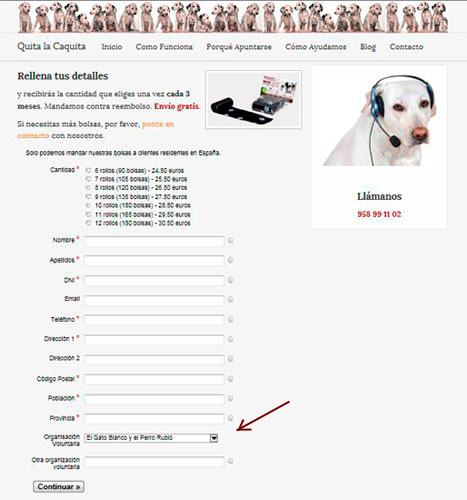
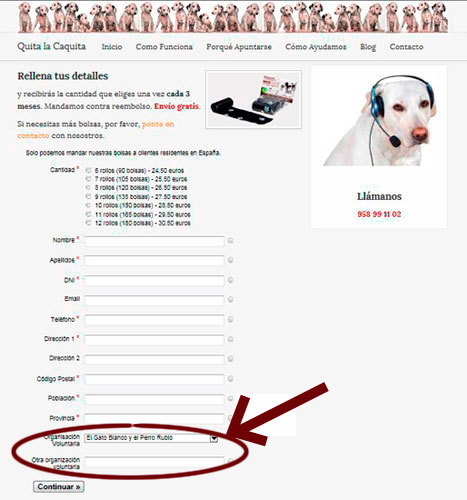
adding formulario to asiciacion, widget update

Changed region(s): [[0.0, 0.75, 0.7195, 0.96], [0.7794, 0.18, 0.8094, 0.21]]

diff --git a/widgets/widget200x400.html b/widgets/widget200x400.html
@@ -1,0 +1,25 @@
+title: ¡Gracias por apuntarte!
+template: widget
+
+<?php
+     $url = "/";
+     $source = $_REQUEST['id'];
+     if($source != "") $url = $url."?id=".$source
+?>
+
+<div class="row-fluid">
+    <div class="well span3 centered">
+        <a href="<?$url?>" target="_blank"><img class="img-polaroid centered" src="/images/Leo_quitalacaquita_feed.jpg" alt="quita la caquita"></a>
+        <h4>¡Nunca Más Sin Bolsitas!</h4>
+        <p class="highlight">Te llegarán a casa.</p>
+        <p class="centered"><img class="img-polaroid" src="/images/bolsas_small.jpg" alt="bolsas de caca de perros" title="Bolsas degradables" /></p>
+        <p>¡Una preocupación menos para ti - una gran ayuda para nosotros!</p>
+        <div class="centered"><a href='<?$url?>' target="_blank" class="btn btn-primary btn-large">¿Cómo Funciona?</a></div>
+    </div>
+    <div class="well span8 centered">
+        
+    </div>
+</div>
+
+
+

diff --git a/templates-hidden/widget.html b/templates-hidden/widget.html
@@ -11,7 +11,6 @@
 
     <script type="text/javascript" src="/js/jquery-1.8.2.min.js"></script>
 
-
     <!-- Styles -->
     <link type="text/css" href="/bootstrap/css/bootstrap.min.css" rel="stylesheet"/>
     <link type="text/css" href="/css/style.css" rel="stylesheet"/>
@@ -22,7 +21,7 @@
 <body>
 <div data-lift="BootstrapUtil.bodyComment"></div>
 <div data-lift="google-analytics?id=UA-5781545-10"></div>
-<div id="header-img"><img src="/images/dalmatians.jpg"></div>
+
 
 <div class="container" id="outer-container">
     <div class="content" data-lift="move_top?from=left_side&to=page_header">

diff --git a/mas-info/asociacion.html b/mas-info/asociacion.html
@@ -8,6 +8,7 @@ order: 70
 <div class="row-fluid">
     <div class="span3">
         <a href="/images/cachorro.jpg" rel="shadowbox[bolsas]"><img class="img-polaroid" src="/images/cachorro_small.jpg" alt="Quita la caquita - cachorro" /></a>
+         <a href="/images/formulario.jpg" rel="shadowbox[bolsas]"><img class="img-polaroid" src="/images/formulario_small.jpg" alt="Quita la caquita - formulario" /></a>
     </div>
     <div class="span6">
         <ul>
